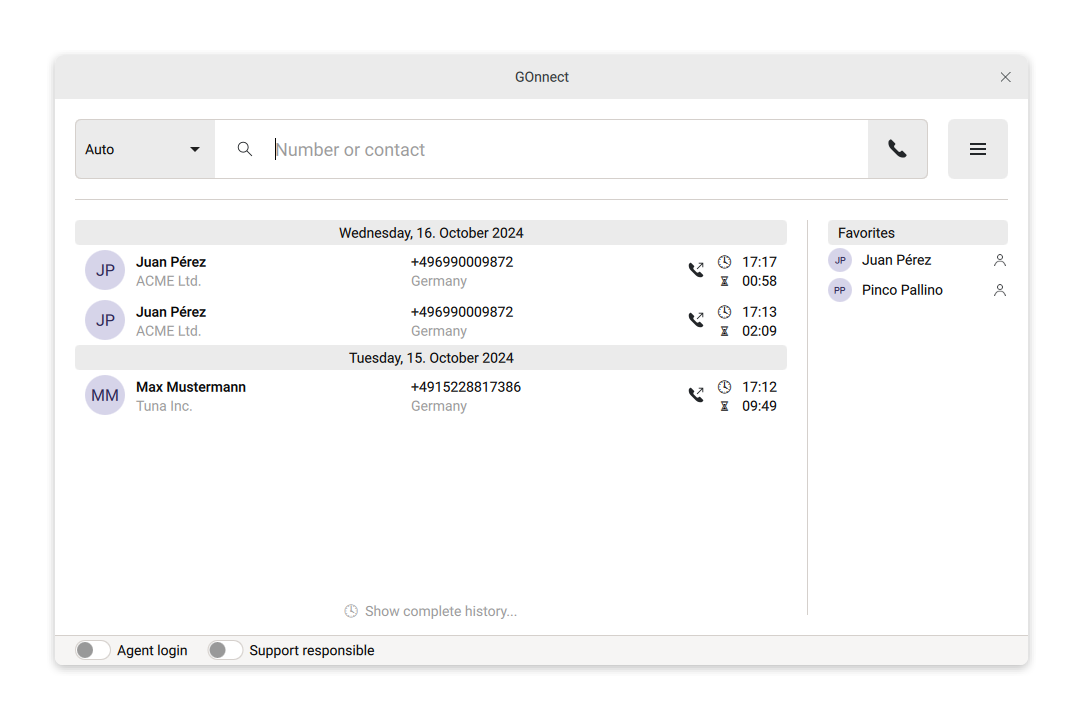
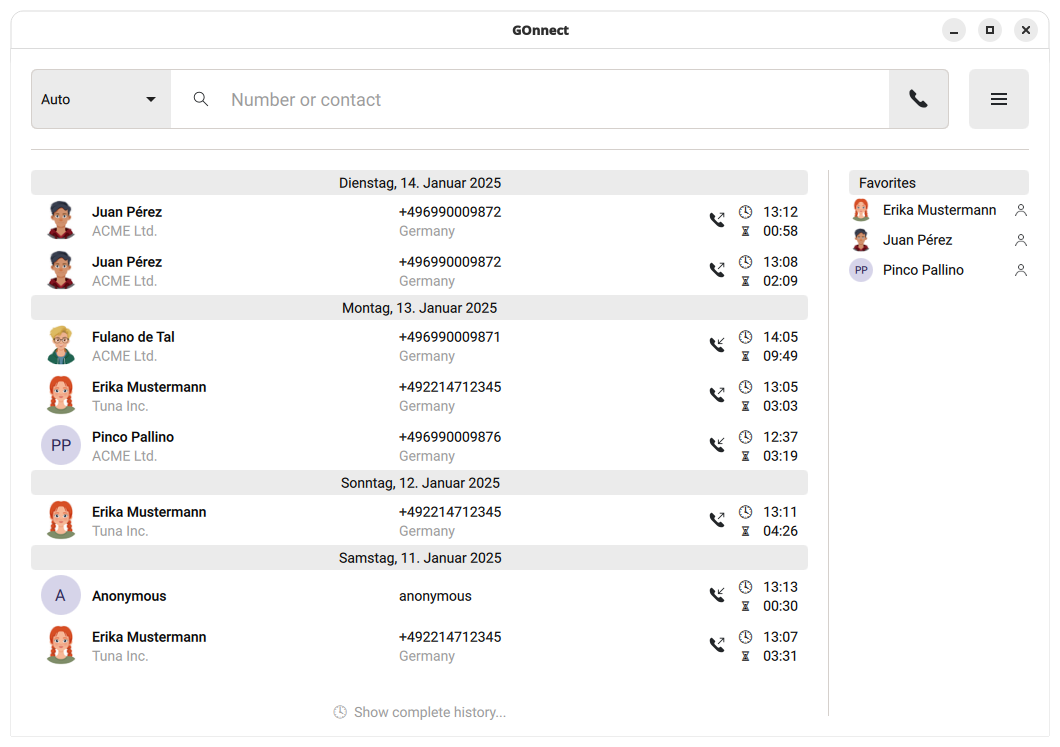
ci: remove flatpak updater
chore: adjust metadata to be more pleasent

fix: write 01-sip.conf instead of user config

This helps for issues where the app is still running and
overwrites local editor settings when tweaking the config.

chore: more and better sample data with avatars

chore: pretty-ize screenshots for main screen

chore: show avatar in ongoing call window

diff --git a/src/ui/components/CallDetails.qml b/src/ui/components/CallDetails.qml
@@ -80,10 +80,25 @@ Item {
         }
     }
 
+    AvatarImage {
+        id: avatarImage
+        size: 120
+        initials: ViewHelper.initials(control.callItem?.name || control.callItem?.phoneNumber || "")
+        source: control.callItem?.hasAvatar ? ("file://" + control.callItem.avatarPath) : ""
+        anchors {
+            centerIn: parent
+            verticalCenterOffset: -25
+        }
+    }
+
     Label {
         id: elapsedTimeLabel
         font.pixelSize: 22
-        anchors.centerIn: parent
+        anchors {
+            horizontalCenter: parent.horizontalCenter
+            top: avatarImage.bottom
+            topMargin: 25
+        }
         text: internal.niceStatusCodes.includes(control.statusCode)
               ? EnumTranslation.sipStatusCode(control.statusCode)
               : ("🕓  " + ViewHelper.secondsToNiceText(internal.elapsedSeconds))

diff --git a/src/ui/components/CallItem.qml b/src/ui/components/CallItem.qml
@@ -29,6 +29,8 @@ Rectangle {
     required property bool hasCapabilityJitsi
     required property int statusCode
     required property bool hasIncomingAudioLevel
+    required property bool hasAvatar
+    required property string avatarPath
 
     property bool selected: false
     property bool interactive: true

diff --git a/samples/generate.py b/samples/generate.py
@@ -42,18 +42,23 @@ def fill_database(con):
     cur.execute("""
         INSERT INTO contactflags VALUES
             ('+496990009872', 5, 1, 0),
-            ('+4915228817386', 17, 0, 0),
+            ('+496990009871', 17, 0, 0),
             ('+496990009876', 42, 1, 0),
-            ('+496990009871', 3, 0, 0)
+            ('+492214712345', 2, 1, 0)
     """)
     con.commit()
 
     timestamp = int(time.time())
     cur.execute(f"""
         INSERT INTO history VALUES
-            (1, {timestamp - 400 - (24 * 60 * 60)}, '+4915228817386', 'account0', 1, 589, '', NULL),
-            (2, {timestamp - 300}, '"Juan Pérez" <sip:+496990009872@foo.org>', 'account0', 1, 129, '', NULL),
-            (3, {timestamp - 60}, '"Juan Pérez" <sip:+496990009872@foo.org>', 'account0', 1, 58, '', NULL)
+            (1, {timestamp - 380 - (3 * 24 * 60 * 60)}, '"Erika Mustermann" <sip:+492214712345@bar.org>', 'account0', 1, 211, '', NULL),
+            (2, {timestamp - 12 - (3 * 24 * 60 * 60)}, '"Anonymous" <sip:anonymous@foo.org>', 'account0', 0, 30, '', NULL),
+            (3, {timestamp - 120 - (2 * 24 * 60 * 60)}, '"Erika Mustermann" <sip:+492214712345@bar.org>', 'account0', 1, 266, '', NULL),
+            (4, {timestamp - 2200 - (24 * 60 * 60)}, '"Pinco Pallino" <sip:+496990009876@foo.org>', 'account0', 0, 199, '', NULL),
+            (5, {timestamp - 480 - (24 * 60 * 60)}, '"Erika Mustermann" <sip:+492214712345@bar.org>', 'account0', 1, 183, '', NULL),
+            (6, {timestamp + 3100 - (24 * 60 * 60)}, '"Fulano de Tal" <sip:+496990009871@bar.org>', 'account0', 0, 589, '', NULL),
+            (7, {timestamp - 300}, '"Juan Pérez" <sip:+496990009872@foo.org>', 'account0', 1, 129, '', NULL),
+            (8, {timestamp - 60}, '"Juan Pérez" <sip:+496990009872@foo.org>', 'account0', 1, 58, '', NULL)
     """)
     con.commit()
 

diff --git a/src/ui/CallsModel.cpp b/src/ui/CallsModel.cpp
@@ -124,6 +124,9 @@ QHash<int, QByteArray> CallsModel::roleNames() const
         { static_cast<int>(Roles::IsFinished), "isFinished" },
         { static_cast<int>(Roles::HasCapabilityJitsi), "hasCapabilityJitsi" },
         { static_cast<int>(Roles::HasIncomingAudioLevel), "hasIncomingAudioLevel" },
+        { static_cast<int>(Roles::HasAvatar), "hasAvatar" },
+        { static_cast<int>(Roles::AvatarPath), "avatarPath" },
+
     };
 }
 
@@ -258,6 +261,14 @@ QVariant CallsModel::data(const QModelIndex &index, int role) const
 
     case static_cast<int>(Roles::HasCapabilityJitsi):
         return callInfo->hasCapabilityJitsi;
+
+    case static_cast<int>(Roles::HasAvatar):
+        return callInfo->contactInfo.contact ? callInfo->contactInfo.contact->hasAvatar() : false;
+
+    case static_cast<int>(Roles::AvatarPath):
+        return callInfo->contactInfo.contact && callInfo->contactInfo.contact->hasAvatar()
+                ? callInfo->contactInfo.contact->avatarPath()
+                : "";
 
     case static_cast<int>(Roles::HasIncomingAudioLevel):
         return callInfo->incomingAudioLevel > 0.3;

diff --git a/src/sip/SIPTemplate.cpp b/src/sip/SIPTemplate.cpp
@@ -59,7 +59,7 @@ QVariantMap SIPTemplate::save(const QVariantMap &values) const
         dir.mkpath(".");
     }
 
-    QString path = basePath + "/99-user.conf";
+    QString path = basePath + "/01-sip.conf";
     if (QFile::exists(path)) {
         if (!QFile::remove(path)) {
             return { { "error", tr("Failed to write to %1").arg(path) } };
@@ -128,7 +128,7 @@ QVariantMap SIPTemplate::save(const QVariantMap &values) const
     // the user to find it. Adjust it here.
     if (qEnvironmentVariable("container") == "flatpak") {
         path = qEnvironmentVariable("XDG_CONFIG_HOME") + "/" + QCoreApplication::organizationName()
-                + "/99-user.conf";
+                + "/01-sip.conf";
     }
 
     return { { "path", path } };

diff --git a/src/ui/CallsModel.h b/src/ui/CallsModel.h
@@ -48,7 +48,9 @@ public:
         StatusCode,
         IsFinished,
         HasCapabilityJitsi,
-        HasIncomingAudioLevel
+        HasIncomingAudioLevel,
+        HasAvatar,
+        AvatarPath
     };
 
     explicit CallsModel(QObject *parent = nullptr);

diff --git a/README.md b/README.md
@@ -9,7 +9,7 @@
 </p>
 
 ---
-[![GOnnect workflow](https://github.com/gonicus/gonnect/actions/workflows/gonnect.yml/badge.svg)](https://github.com/gonicus/gonnect/actions/workflows/gonnect.yml)
+[![GOnnect workflow](https://github.com/gonicus/gonnect/actions/workflows/gonnect.yml/badge.svg)](https://github.com/gonicus/gonnect/actions/workflows/gonnect.yml) ![Flathub Version](https://img.shields.io/flathub/v/de.gonicus.gonnect)
 
 # Overview
 
@@ -50,10 +50,8 @@ Here's a short feature list:
 # Installing _GOnnect_
 
 _GOnnect_ is distributed via Flathub only. To install it, either visit the
-[Flathub page](https://flathub.org) or search for _GOnnect_ in _GNOME-Software_
+[Flathub page](https://flathub.org/apps/de.gonicus.gonnect), search for _GOnnect_ in _GNOME-Software_
 or KDE's _discover_.
-
-TODO: flathub link
 
 After you have installed _GOnnect_, either adjust the provided
 `sample.conf` and place it in `~/.var/app/de.gonicus.gonnect/config/gonnect/99-user.conf`,
@@ -64,7 +62,7 @@ or head over to [the documentation](https://github.com/gonicus/gonnect/wiki).
 _GOnnect_ is licensed unter the terms of the GNU GENERAL PUBLIC LICENSE
 Version 2, or at your opinion any later version.
 
-See `LICENSE` for the full content of the license.
+See [LICENSE](LICENSE) for the full content of the license.
 
 # Development
 
